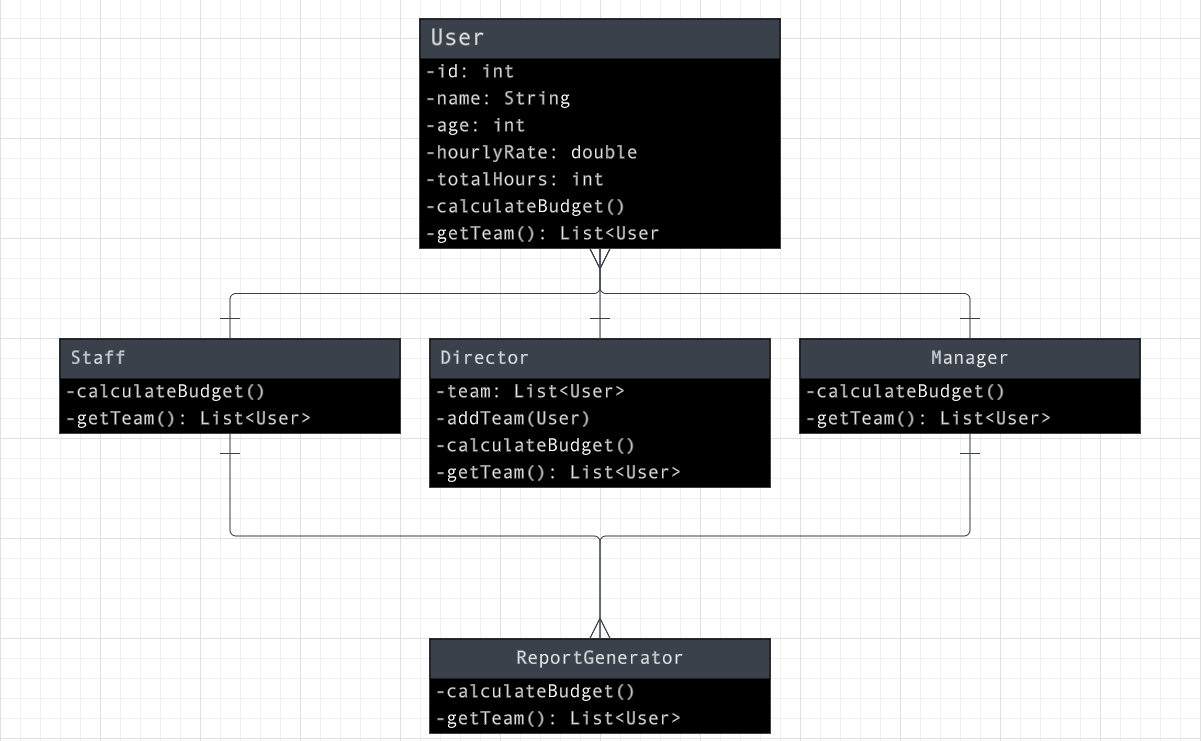
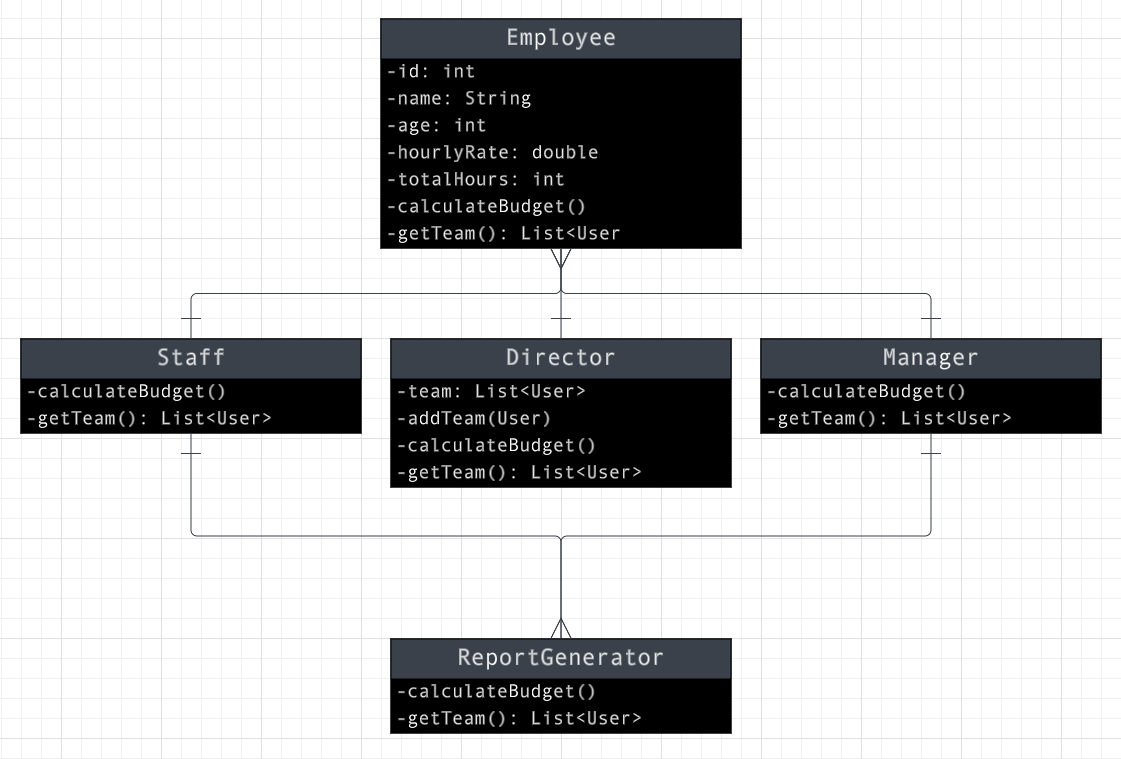
lastChnge

diff --git a/src/Main.java b/src/Main.java
@@ -1,42 +1,42 @@
 public class Main {
     public static void main(String[] args) {
 
-        FakeDatabase db = FakeDatabase.getInstance();
+        EmployeeDatabase database = EmployeeDatabase.getInstance();
 
-        Staff employee1 = new Staff(1001, "Abdullah", 28, 17.5, 160);
-        Staff employee2 = new Staff(1002, "Shaher", 32, 19.75, 175);
-        Staff employee3 = new Staff(1003, "Mohammed", 24, 15.0, 140);
+        Employee staff1 = new Staff(1001, "Abdullah", 28, 17.5, 160);
+        Employee staff2 = new Staff(1002, "Shaher", 32, 19.75, 175);
+        Employee staff3 = new Staff(1003, "Mohammed", 24, 15.0, 140);
 
-        Manager managerA = new Manager(2001, "Ahmad", 35, 25.0);
-        Manager managerB = new Manager(2002, "Salameh", 40, 23.5);
+        Employee managerA = new Manager(2001, "Ahmad", 35, 25.0);
+        Employee managerB = new Manager(2002, "Salameh", 40, 23.5);
 
-        managerA.addTeam(employee1);
-        managerB.addTeam(employee2);
-        managerA.addTeam(employee3);
+        ((Manager) managerA).addSubordinate(staff1);
+        ((Manager) managerB).addSubordinate(staff2);
+        ((Manager) managerA).addSubordinate(staff3);
 
-        Director directorX = new Director(3001, "Mostafa", 42, 30.0);
+        Employee directorX = new Director(3001, "Mostafa", 42, 30.0);
 
-        directorX.addTeam(managerA);
-        directorX.addTeam(managerB);
+        ((Director) directorX).addSubordinate(managerA);
+        ((Director) directorX).addSubordinate(managerB);
 
-        db.addUser(employee1);
-        db.addUser(employee2);
-        db.addUser(employee3);
-        db.addUser(managerA);
-        db.addUser(managerB);
-        db.addUser(directorX);
+        database.addEmployee(staff1);
+        database.addEmployee(staff2);
+        database.addEmployee(staff3);
+        database.addEmployee(managerA);
+        database.addEmployee(managerB);
+        database.addEmployee(directorX);
 
         ReportGenerator reportGenerator = new ReportGenerator();
 
         displayHeader("Company Report");
 
         displaySectionHeader("Director Report");
-        reportGenerator.generateStaffListReport(directorX);
-        reportGenerator.generateRequiredBudgetReport(directorX);
+        reportGenerator.generateEmployeeListReport(directorX);
+        reportGenerator.generateBudgetReport(directorX);
 
         displaySectionHeader("Manager Report");
-        reportGenerator.generateStaffListReport(managerA);
-        reportGenerator.generateRequiredBudgetReport(managerA);
+        reportGenerator.generateEmployeeListReport(managerA);
+        reportGenerator.generateBudgetReport(managerA);
 
         displayFooter("End of Report");
     }

diff --git a/src/Employee.java b/src/Employee.java
@@ -1,0 +1,60 @@
+import java.util.List;
+
+public abstract class Employee {
+    private int employeeId;
+    private String employeeName;
+    private int employeeAge;
+    private double hourlyRate;
+    private int totalHoursWorked;
+
+    public Employee(int employeeId, String employeeName, int employeeAge, double hourlyRate, int totalHoursWorked) {
+        this.employeeId = employeeId;
+        this.employeeName = employeeName;
+        this.employeeAge = employeeAge;
+        this.hourlyRate = hourlyRate;
+        this.totalHoursWorked = totalHoursWorked;
+    }
+
+    public int getEmployeeId() {
+        return employeeId;
+    }
+
+    public void setEmployeeId(int employeeId) {
+        this.employeeId = employeeId;
+    }
+
+    public String getEmployeeName() {
+        return employeeName;
+    }
+
+    public void setEmployeeName(String employeeName) {
+        this.employeeName = employeeName;
+    }
+
+    public int getEmployeeAge() {
+        return employeeAge;
+    }
+
+    public void setEmployeeAge(int employeeAge) {
+        this.employeeAge = employeeAge;
+    }
+
+    public double getHourlyRate() {
+        return hourlyRate;
+    }
+
+    public void setHourlyRate(double hourlyRate) {
+        this.hourlyRate = hourlyRate;
+    }
+
+    public int getTotalHoursWorked() {
+        return totalHoursWorked;
+    }
+
+    public void setTotalHoursWorked(int totalHoursWorked) {
+        this.totalHoursWorked = totalHoursWorked;
+    }
+
+    public abstract double calculateBudget();
+    public abstract List<Employee> getSubordinates();
+}

diff --git a/src/Manager.java b/src/Manager.java
@@ -1,29 +1,29 @@
-import java.util.ArrayList;
 import java.util.List;
+import java.util.ArrayList;
 
-public class Manager extends User {
-    private List<User> team;
+public class Manager extends Employee {
+    private List<Employee> subordinates;
 
-    public Manager(int id, String name, int age, double hourlyRate) {
-        super(id, name, age, hourlyRate, 0);
-        team = new ArrayList<>();
+    public Manager(int employeeId, String employeeName, int employeeAge, double hourlyRate) {
+        super(employeeId, employeeName, employeeAge, hourlyRate, 0);
+        subordinates = new ArrayList<>();
     }
 
     @Override
     public double calculateBudget() {
         double budget = 0;
-        for (User team : team) {
-            budget += team.calculateBudget();
+        for (Employee subordinate : subordinates) {
+            budget += subordinate.calculateBudget();
         }
         return budget;
     }
 
     @Override
-    public List<User> getTeam() {
-        return team;
+    public List<Employee> getSubordinates() {
+        return subordinates;
     }
 
-    public void addTeam(User user) {
-        team.add(user);
+    public void addSubordinate(Employee subordinate) {
+        subordinates.add(subordinate);
     }
 }

diff --git a/src/Director.java b/src/Director.java
@@ -1,29 +1,29 @@
 import java.util.ArrayList;
 import java.util.List;
 
-public class Director extends User {
-    private List<User> team;
+public class Director extends Employee {
+    private List<Employee> subordinates;
 
     public Director(int id, String name, int age, double hourlyRate) {
         super(id, name, age, hourlyRate, 0);
-        team = new ArrayList<>();
+        subordinates = new ArrayList<>();
     }
 
     @Override
     public double calculateBudget() {
         double budget = 0;
-        for (User teamMember : team) {
-            budget += teamMember.calculateBudget();
+        for (Employee subordinate : subordinates) {
+            budget += subordinate.calculateBudget();
         }
         return budget;
     }
 
     @Override
-    public List<User> getTeam() {
-        return team;
+    public List<Employee> getSubordinates() {
+        return subordinates;
     }
 
-    public void addTeam(User user) {
-        team.add(user);
+    public void addSubordinate(Employee employee) {
+        subordinates.add(employee);
     }
 }

diff --git a/src/ReportGenerator.java b/src/ReportGenerator.java
@@ -1,13 +1,13 @@
 public class ReportGenerator {
-    public void generateStaffListReport(User user) {
-        System.out.println(user.getName() + "'s teams':");
-        for (User team : user.getTeam()) {
-            System.out.println(team.getName());
+    public void generateEmployeeListReport(Employee employee) {
+        System.out.println("Employee: " + employee.getEmployeeName() + "'s Subordinates:");
+        for (Employee subordinate : employee.getSubordinates()) {
+            System.out.println(subordinate.getEmployeeName());
         }
     }
 
-    public void generateRequiredBudgetReport(User user) {
-        double budget = user.calculateBudget();
-        System.out.println(user.getName() + "'s Required Budget: $" + budget);
+    public void generateBudgetReport(Employee employee) {
+        double budget = employee.calculateBudget();
+        System.out.println("Employee: " + employee.getEmployeeName() + "'s Required Budget: $" + budget);
     }
 }

diff --git a/src/Staff.java b/src/Staff.java
@@ -1,17 +1,17 @@
 import java.util.List;
 
-public class Staff extends User {
-    public Staff(int id, String name, int age, double hourlyRate, int totalHours) {
-        super(id, name, age, hourlyRate, totalHours);
+public class Staff extends Employee {
+    public Staff(int employeeId, String employeeName, int employeeAge, double hourlyRate, int totalHoursWorked) {
+        super(employeeId, employeeName, employeeAge, hourlyRate, totalHoursWorked);
     }
 
     @Override
     public double calculateBudget() {
-        return getHourlyRate() * getTotalHours();
+        return getHourlyRate() * getTotalHoursWorked();
     }
 
     @Override
-    public List<User> getTeam() {
-        return null;
+    public List<Employee> getSubordinates() {
+        return null;  // Staff doesn't have subordinates
     }
 }

diff --git a/src/EmployeeDatabase.java b/src/EmployeeDatabase.java
@@ -1,0 +1,22 @@
+import java.util.ArrayList;
+import java.util.List;
+
+public class EmployeeDatabase {
+    private static EmployeeDatabase instance;
+    private final List<Employee> employees;
+
+    private EmployeeDatabase() {
+        employees = new ArrayList<>();
+    }
+
+    public static EmployeeDatabase getInstance() {
+        if (instance == null) {
+            instance = new EmployeeDatabase();
+        }
+        return instance;
+    }
+
+    public void addEmployee(Employee employee) {
+        employees.add(employee);
+    }
+}
